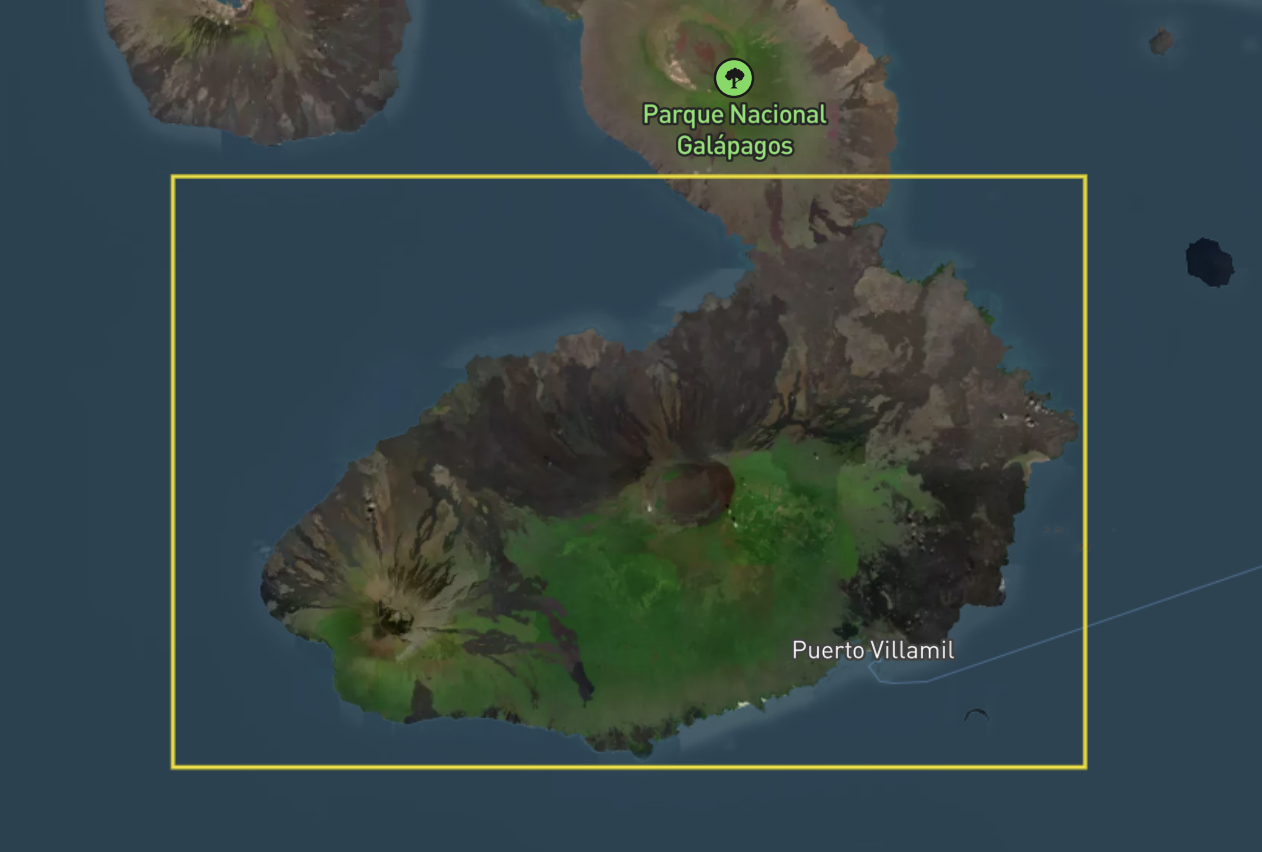
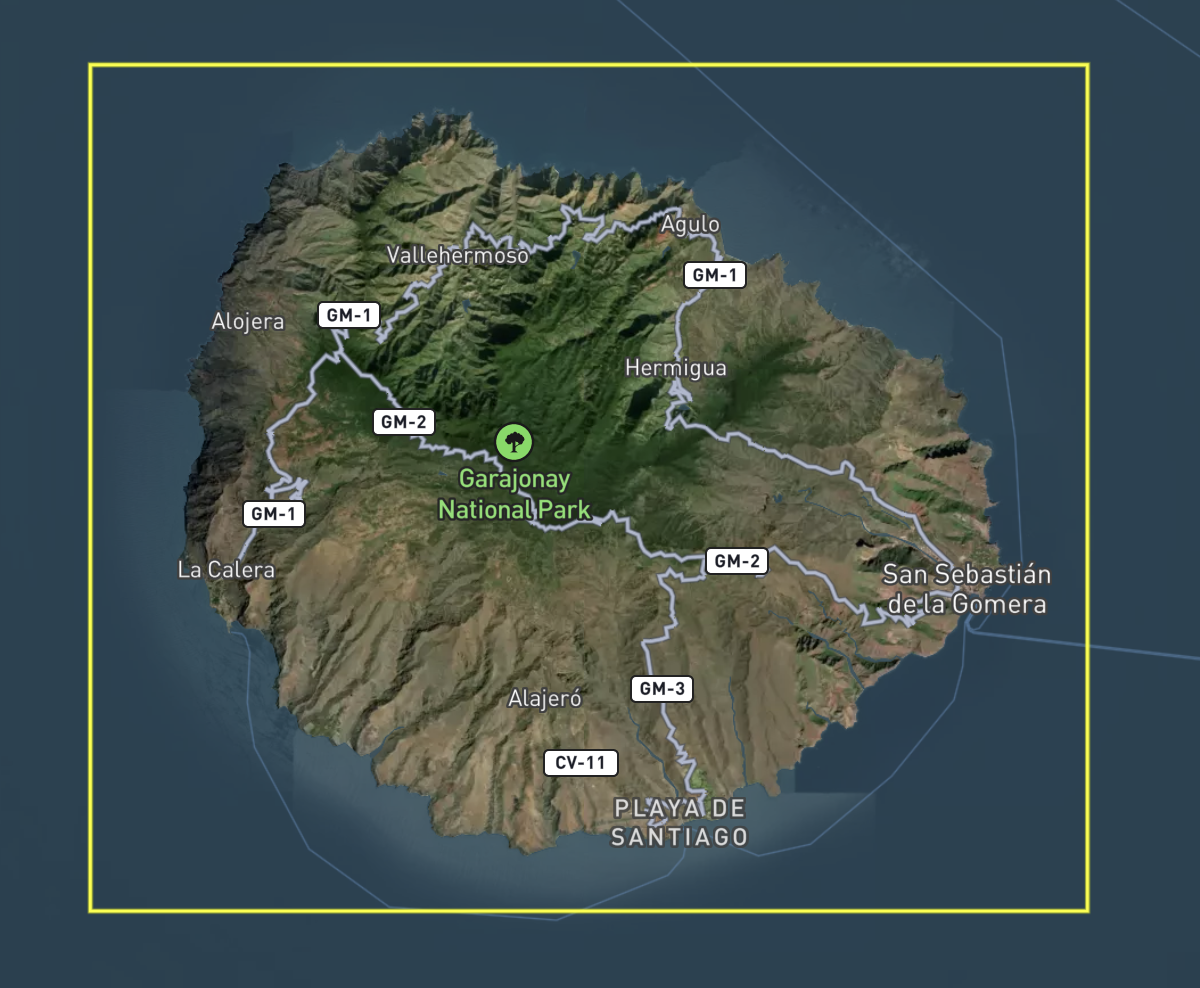
Change tutorial AOI to resolve warnings from LULC product. Tidy up

diff --git a/docs/tutorials/odc-stac.rst b/docs/tutorials/odc-stac.rst
@@ -93,19 +93,19 @@ Area of interest
 
 We specify the area of interest using the :code:`aoi.geojson` file, which can be loaded with :code:`geopandas`.
 
-The area of interest is the southern part of Isla Isabela, one of the islands in the Galapagos.
+The area of interest is the island of La Gomera, one of the Canary Islands.
 
 .. image:: ../_static/tutorial-images/odc-stac/aoi.png
  :width: 600
- :alt: A satellite image of Isla Isabela, with the area of interest shown as a yellow bounding box.
+ :alt: A map of La Gomera with satellite imagery, with the area of interest shown as a yellow bounding box.
  :align: center
 
 | Type the following into the empty cell below the **Area of interest** heading:
 
 .. code-block:: python
 
-   aoi = gpd.read_file("aoi.geojson")
-   aoi_geometry = aoi.iloc[0].geometry
+   desired_aoi = gpd.read_file("aoi.geojson")
+   desired_aoi_geometry = desired_aoi.iloc[0].geometry
 
 When you have finished, run the cell by pressing :code:`Shift+Enter` on your keyboard.
 
@@ -117,28 +117,28 @@ Type the following into the empty cell below the **Date range** heading:
 
 .. code-block:: python
 
-   start_date = "2017-01-01"
-   end_date = "2023-01-01"
-   date_range = (start_date, end_date)
+   desired_start_date = "2017-01-01"
+   desired_end_date = "2023-01-01"
+   desired_date_range = (desired_start_date, desired_end_date)
 
 
 When you have finished, run the cell by pressing :code:`Shift+Enter` on your keyboard.
 
-Catalogs, collections, and items
-^^^^^^^^^^^^^^^^^^^^^^^^^^^^^^^^
+STAC metadata
+^^^^^^^^^^^^^
 
 Many Earth observation data providers generate STAC metadata, which can be used to find and load data you're interested in.
 STAC metadata has four important components:
 
 * **Catalog**: A structure for organising multiple datasets managed by a given provider. For example, `Planetary Computer's Catalog <https://radiantearth.github.io/stac-browser/#/external/planetarycomputer.microsoft.com/api/stac/v1/>`_
 * **Collection**: A structure for organising all items in a single dataset. For example, `Land Use Land Cover Collection <https://radiantearth.github.io/stac-browser/#/external/planetarycomputer.microsoft.com/api/stac/v1/collections/io-lulc-annual-v02>`_
-* **Item** A single spatio-temporal item, such as one observation in a dataset. For example, `Land Use Land Cover Data for Supercell 15M in 2013 <https://radiantearth.github.io/stac-browser/#/external/planetarycomputer.microsoft.com/api/stac/v1/collections/io-lulc-annual-v02/items/15M-2023>`_
+* **Item** A single spatio-temporal item, such as one observation in a dataset. For example, `Land Use Land Cover Data for Supercell 28R in 2023 <https://radiantearth.github.io/stac-browser/#/external/planetarycomputer.microsoft.com/api/stac/v1/collections/io-lulc-annual-v02/items/28R-2023>`_
 * **Asset** A single data measurement associated with an item, such as a single band. The Land Use Land Cover Dataset has only one asset, called "data".
 
 We must specify the URL for the catalog we want to search, along with the desired collection (:code:`io-lulc-annual-v02`) and asset (:code:`data`). 
 The precise items that we need to load will be returned by a query that we run later.
 
-Type the following into the empty cell below the **Catalogs, collections, and items** heading:
+Type the following into the empty cell below the **STAC metadata** heading:
 
 .. code-block:: python
 
@@ -174,26 +174,26 @@ Type the following into the empty cell below the **Search for items** heading:
 
    items = stac_client.search(
        collections=desired_collections,
-       intersects=aoi_geometry,
-       datetime=date_range,
+       intersects=desired_aoi_geometry,
+       datetime=desired_date_range,
    ).item_collection()
 
    print(f"Found {len(items)} items")
 
 When you have finished, run the cell by pressing :code:`Shift+Enter` on your keyboard.
-After running the cell, you should see a printed sentence reporting "Found 17 items"
+After running the cell, you should see a printed sentence reporting "Found 7 items"
 
 Troubleshooting
 """""""""""""""
 
-If the sentence shows a different number of items, try checking whether your :code:`date_query` parameter is correct by printing it:
+If the sentence shows a different number of items, try checking whether your :code:`desired_date_range` parameter is correct by printing it:
 
 .. code-block:: python
 
-   print(date_query)
+   print(desired_date_range)
 
 should return :code:`('2017-01-01', '2023-01-01')`.
-If you see a different date range, return to the **Set up query parameters - Date range** section and ensure your :code:`start_date` and :code:`end_date` values match those given in the instructions.
+If you see a different date range, return to the **Set up query parameters - Date range** section and ensure your :code:`desired_start_date` and :code:`desired_end_date` values match those given in the instructions.
 
 Load items with odc-stac
 ------------------------
@@ -216,13 +216,7 @@ Type the following into the empty cell below the **Load items with odc-stac** he
 
 When you have finished, run the cell by pressing :code:`Shift+Enter` on your keyboard.
 
-.. note::
-   You may see RunTimeWarnings appear in red text.
-   This comes from the :code:`affine` module and is expected behaviour for this dataset.
-   The warnings may look worrisome, but be reassured that nothing is wrong in this case.
-
 After running the cell, you should see a :code:`xarray.Dataset` summary.
-This will appear below any warnings.
 
 .. image:: ../_static/tutorial-images/odc-stac/xarray_output.png
  :width: 600
@@ -243,10 +237,16 @@ Type the following into the empty cell below the **Visualise loaded data** headi
 
 When you have finished, run the cell by pressing :code:`Shift+Enter` on your keyboard.
 After running the cell, you should see the following visualisation.
+The colours in the plot represent the following land cover classes:
+
+- dark blue: water
+- green: built area
+- yellow: rangeland
+- mid blue: trees
 
 .. image:: ../_static/tutorial-images/odc-stac/output.png
  :width: 600
- :alt: A series of images showing the land cover data for each year, from 2017 to 2023. Each image shows the island in green and yellow, surrounded by ocean in blue.
+ :alt: A series of images showing the land cover data for each year, from 2017 to 2023. Each image shows the island in green, yellow and mid blue, surrounded by ocean in dark blue.
  :align: center
 
 Advanced visualisation
@@ -294,7 +294,7 @@ In the last step you exported the loaded data as a series of Cloud Optimised Geo
    Make sure you download these files from the file browser before exiting the tutorial space as they will be deleted when the tutorial space is closed.
 
    To download, open the file-browser by clicking the folder icon in the left menu bar.
-   Then, download the "LULC_year.tif" files by right-clicking each file and selecting "Download".
+   Then, download the Land Use Land Cover file for each year (denoted as `LULC_<year>.tif`) by right-clicking each file and selecting "Download".
 
 .. _pystac-client: https://pystac-client.readthedocs.io/en/stable/
 .. _odc-stac: https://odc-stac.readthedocs.io/en/latest/
